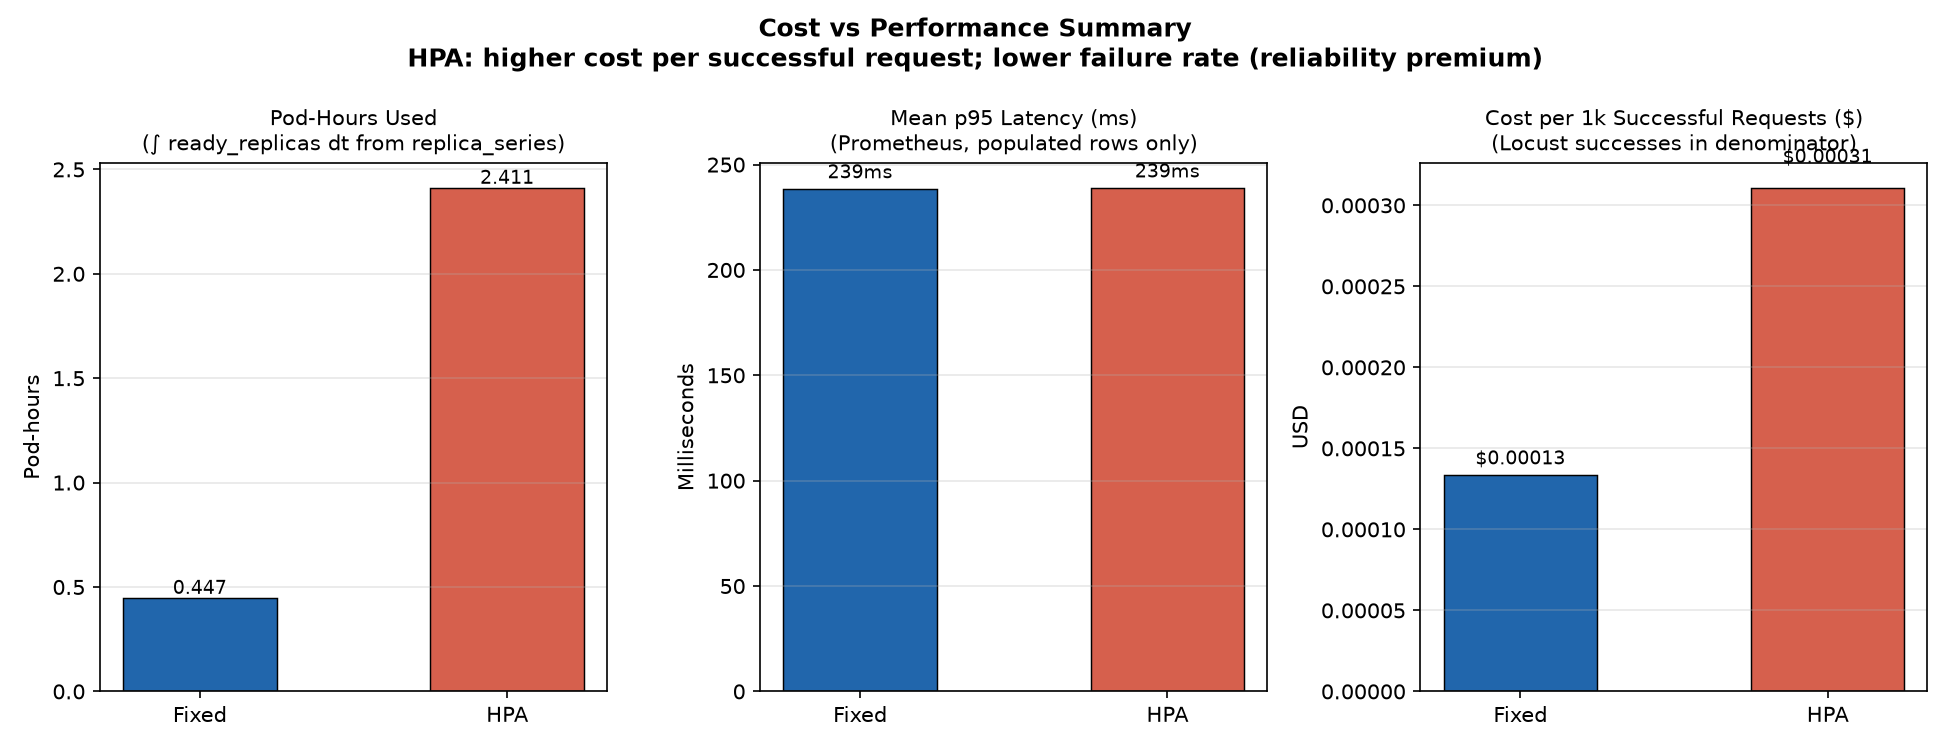
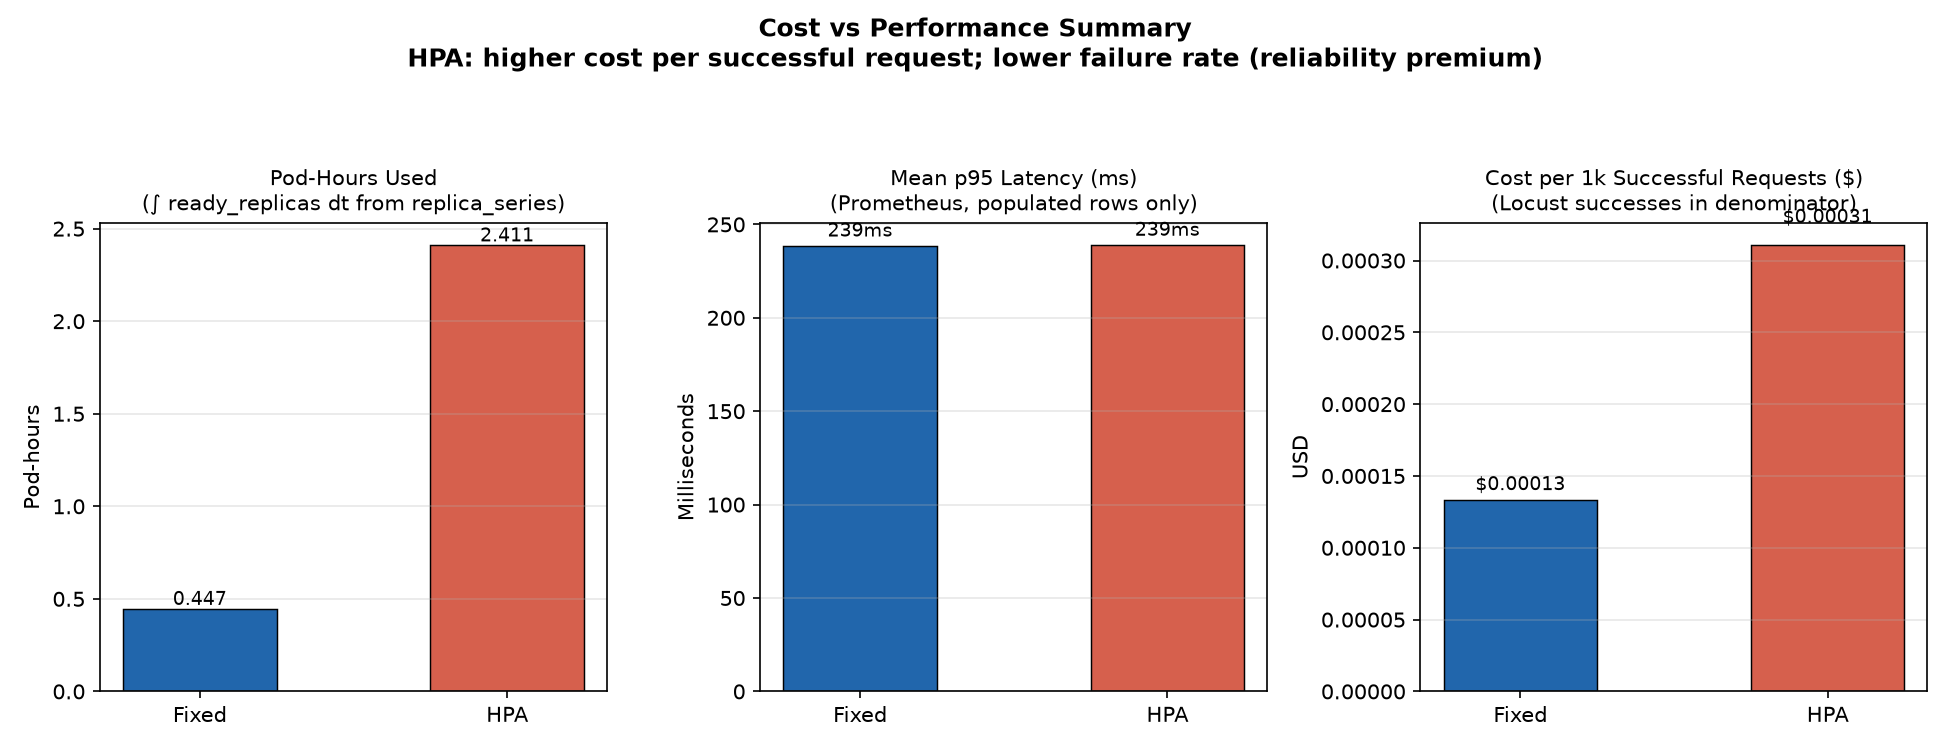
Disclose cost model assumptions and partial-coverage figure generation.
Document hardcoded e2-standard-2 list price (2026-09-04) as modeled not billed;
log ALLOW_PARTIAL_COVERAGE and record analysis.allow_partial_coverage in manifest.

diff --git a/analysis/analyze_results.py b/analysis/analyze_results.py
@@ -19,8 +19,10 @@ from __future__ import annotations
 
 import argparse
 import csv
+import json
 import os
 import sys
+from datetime import datetime, timezone
 from pathlib import Path
 
 _ANALYSIS_DIR = Path(__file__).resolve().parent
@@ -77,8 +79,11 @@ PHASE_COLORS     = ["#f7f7f7", "#fee8c8", "#edf8e9", "#deebf7"]
 
 FIG_DPI = 150
 
-# GKE e2-standard-2 on-demand list price (us-central1, 2026-03 public pricing).
-# Pod requests 0.1 vCPU on a 2-vCPU node → proportional node-cost share.
+# Cost model (Tier 2 will replace with pricing/ catalog fetcher — not built here).
+# SKU: GKE worker node type e2-standard-2, on-demand, region us-central1.
+# Price basis: Google Cloud published on-demand list price checked 2026-09-04 for
+# this run's publication — NOT billed/invoiced spend from Cloud Billing.
+# Hardcoded constant; no pricing/ module or live price fetch.
 GKE_E2_STANDARD_2_USD_PER_HOUR = 0.0535
 POD_VCPU_REQUEST = 0.1
 NODE_VCPU_CAPACITY = 2.0
@@ -427,6 +432,36 @@ def print_summary(fixed: list[dict], hpa: list[dict]):
 # Entry point
 # ---------------------------------------------------------------------------
 
+def infer_manifest_path(fixed_path: str) -> Path | None:
+    fixed = Path(fixed_path).resolve()
+    if fixed.name != "fixed_metrics.csv":
+        return None
+    if not fixed.parent.name.startswith("rep-"):
+        return None
+    candidate = fixed.parent.parent / "manifest.json"
+    return candidate if candidate.is_file() else None
+
+
+def record_partial_coverage_manifest(manifest_path: Path, *, fixed_metrics: str, output_dir: Path) -> None:
+    with manifest_path.open(encoding="utf-8") as handle:
+        data = json.load(handle)
+    data["analysis"] = {
+        "allow_partial_coverage": True,
+        "coverage_certified": False,
+        "fixed_metrics_path": str(Path(fixed_metrics).resolve()),
+        "figures_output_dir": str(output_dir.resolve()),
+        "recorded_at": datetime.now(tz=timezone.utc).isoformat(),
+        "note": (
+            "Figures generated with METRICS_COLUMN_COVERAGE gate bypassed on fixed arm; "
+            "not a fully coverage-certified run."
+        ),
+    }
+    with manifest_path.open("w", encoding="utf-8") as handle:
+        json.dump(data, handle, indent=2)
+        handle.write("\n")
+    print(f"MANIFEST_ALLOW_PARTIAL_COVERAGE path={manifest_path}")
+
+
 def guard_inputs(
     fixed_path: str,
     hpa_path: str,
@@ -475,7 +510,11 @@ def main():
     parser.add_argument("--replica-series-hpa", default=None)
     parser.add_argument("--allow-synthetic", action="store_true")
     parser.add_argument("--allow-partial-coverage", action="store_true")
+    parser.add_argument("--manifest", default=None, help="Run manifest.json to update when --allow-partial-coverage")
     args = parser.parse_args()
+
+    if args.allow_partial_coverage:
+        print("ALLOW_PARTIAL_COVERAGE=true fixed_metrics_coverage_certified=false")
 
     guard_inputs(
         args.fixed,
@@ -519,6 +558,21 @@ def main():
 
     print_summary(fixed, hpa)
     print(f"\nAll figures saved to {out_dir}/")
+
+    if args.allow_partial_coverage:
+        manifest_path = Path(args.manifest) if args.manifest else infer_manifest_path(args.fixed)
+        if manifest_path is not None:
+            record_partial_coverage_manifest(
+                manifest_path,
+                fixed_metrics=args.fixed,
+                output_dir=out_dir,
+            )
+        else:
+            print(
+                "MANIFEST_ALLOW_PARTIAL_COVERAGE skipped=manifest_not_found "
+                f"fixed={args.fixed}",
+                file=sys.stderr,
+            )
 
 
 if __name__ == "__main__":

diff --git a/RESULTS.md b/RESULTS.md
@@ -51,6 +51,24 @@ Serving rows = `ready_replicas > 0` (**59** of 73 anchored rows: 40 DEGRADED + 1
 
 Per-row investigation table: [docs/run-20260904T230444Z-rate-gap-table.md](docs/run-20260904T230444Z-rate-gap-table.md).
 
+### Figure generation (partial-coverage disclosure)
+
+Published figures under `docs/figures/run-20260904T230444Z/` were **not** produced by a fully coverage-certified analysis pass. Fixed-arm rate coverage is **33/57** (investigated; see appendix). Figures were generated with `--allow-partial-coverage`, which bypasses `METRICS_COLUMN_COVERAGE` on the fixed metrics CSV. The tool logs `ALLOW_PARTIAL_COVERAGE=true fixed_metrics_coverage_certified=false` and records `analysis.allow_partial_coverage: true` in the run `manifest.json`.
+
+```bash
+.venv/bin/python analysis/analyze_results.py \
+  --fixed results/runs/run-20260904T230444Z/rep-1/fixed_metrics.csv \
+  --hpa results/runs/run-20260904T230444Z/rep-1/hpa_metrics.csv \
+  --replica-series-fixed results/runs/run-20260904T230444Z/rep-1/replica_series_fixed.csv \
+  --replica-series-hpa results/runs/run-20260904T230444Z/rep-1/replica_series_hpa.csv \
+  --locust-fixed-stats results/runs/run-20260904T230444Z/rep-1/locust_fixed_stats.csv \
+  --locust-hpa-stats results/runs/run-20260904T230444Z/rep-1/locust_hpa_stats.csv \
+  --output-dir docs/figures/run-20260904T230444Z \
+  --allow-partial-coverage
+```
+
+Do **not** treat a run whose manifest lacks `analysis.allow_partial_coverage: true` (or whose analyze log lacks `ALLOW_PARTIAL_COVERAGE=true`) as using the same figure-generation policy.
+
 ## Reproducibility
 
 Guards enforced for this run (evidence in `rep.log` and collection output):
@@ -117,9 +135,12 @@ During scale-up, `spec_replicas` (HPA desired) leads `ready_replicas` (pods pass
 
 **Formula:** `(pod_hours × list_price_per_pod_hour) / (successful_requests / 1000)`
 
-**Price constant:** `list_price_per_pod_hour = $0.002675` — GKE e2-standard-2 on-demand **$0.0535/hr** (us-central1 public list price) × **0.1/2.0** vCPU share (pod requests 0.1 vCPU on a 2-vCPU node). Defined in `analysis/analyze_results.py`.
+#### Cost model assumptions (not billed spend)
 
-**Pod-hours** — integral of `ready_replicas` over time from in-run sampler: `sum(ready_i × Δt) / 3600`.
+- **`$0.0535/hr`** — hardcoded published on-demand list price for GKE worker SKU **`e2-standard-2`**, region **`us-central1`**, checked **2026-09-04** for this publication. Defined in `analysis/analyze_results.py` (`GKE_E2_STANDARD_2_USD_PER_HOUR`). **Not fetched** from Cloud Billing or a `pricing/` catalog (Tier 2 deferred).
+- **`$0.002675` per pod-hour** — prorated by CPU request share **0.1 / 2.0 vCPU** on that node type (`LIST_PRICE_PER_POD_HOUR`).
+- **Modeled cost only** — reflects **relative pod-hour efficiency** between arms at published list rates; **not invoiced spend**.
+- **Pod-hours** — integrated from in-run `replica_series_*.csv`: `sum(ready_i × Δt) / 3600`. Fixed arm **0.447** pod-hours, **not** the naive `3 × 0.3h = 0.900`, because the deployment **collapsed to 0 ready replicas** for much of the window.
 
 | Arm | pod_hours | successful (Locust) | Cost per 1k successful | Source |
 |-----|----------:|--------------------:|-----------------------:|--------|
@@ -140,7 +161,7 @@ During scale-up, `spec_replicas` (HPA desired) leads `ready_replicas` (pods pass
 
 ## Figures
 
-Generated from recovered metrics (fixed arm PARTIAL; HPA arm complete):
+Generated with `--allow-partial-coverage` (see [Data completeness](#figure-generation-partial-coverage-disclosure)). Fixed arm PARTIAL; HPA arm complete.
 
 - `docs/figures/run-20260904T230444Z/latency_comparison.png`
 - `docs/figures/run-20260904T230444Z/throughput_comparison.png`
